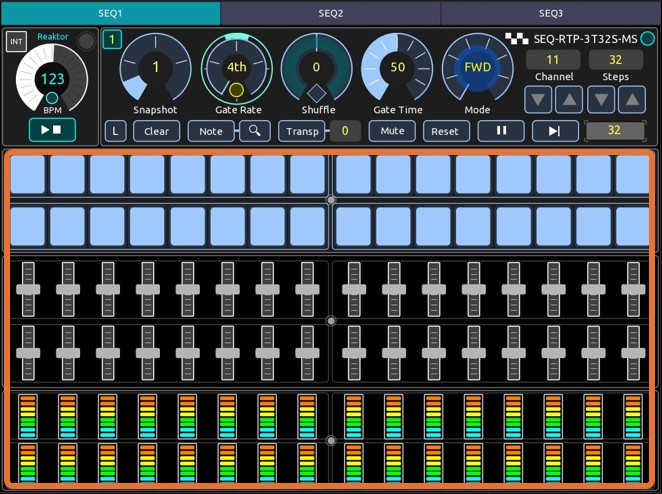
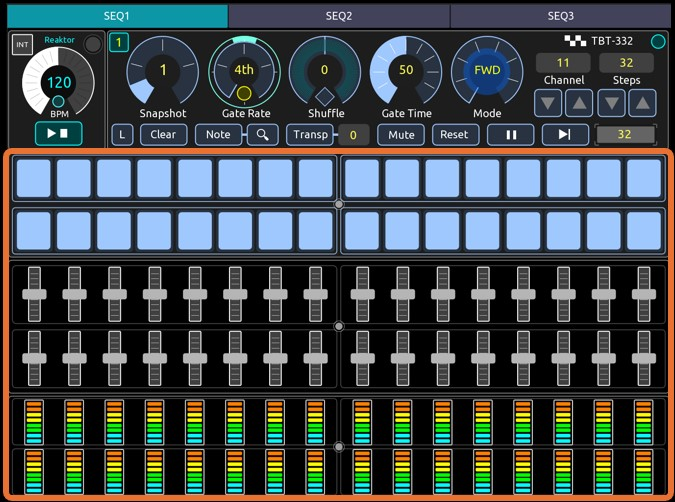
v0.1 update

diff --git a/README.md b/README.md
@@ -1,8 +1,8 @@
 ## Reaktor ToyBox Tangle Pack Sequencer
-### Custom Built Reaktor rack and TouchOSC Template
+### TouchOSC Template for a Custom Built Reaktor rack sequencer
 
-- Instrument: Reaktor ToyBox **Tangle Pack** Sequencer, 3 tracks, 32 steps, MIDI out, Standalone
-- Model: SEQ-RTP-3T32S-MS
+- Instrument: Reaktor ToyBox **Tangle Pack** Sequencer, 3 tracks, 32 steps, MIDI
+- Model: TBT-332
 - Version: 1.0 
 - ![Static Badge](https://img.shields.io/badge/testing-in_progress-blue)
 
@@ -15,7 +15,7 @@
 ## Contents
 - [Description](#description)
 - [Operation](#operation)
-- [User Guide](USER_GUIDE.md)
+- [User Guide :link: ](USER_GUIDE.md)
 - [Instrument](#instrument)
 - [Sequencer](#sequencer)
 - [Reaktor rack](#reaktor-rack)
@@ -27,10 +27,10 @@
 
 
 ## Description
-A TouchOSC template to control with a tablet device a **CUSTOM BUILT** Reaktor Sequencer of 3 tracks, 32 steps per track, custom built with the [ToyBox Tangle Pack](https://www.toyboxaudio.com/pages/tangle-pack) modular blocks. It "materializes" a well featured  "physical" sequencer in a tablet midi controller for your musical production workflow to  jam and inspire your productions.
+A TouchOSC template to control and play with a tablet device a **CUSTOM BUILT** Reaktor Sequencer of 3 tracks, 32 steps, using the [ToyBox Tangle Pack](https://www.toyboxaudio.com/pages/tangle-pack) modular blocks. It "materializes" physical sequencer in a tablet midi controller for your musical production workflow to jam and inspire your productions.
 
 ## Operation
-Reaktor runs in **standalone** mode outside of the DAW using the rack (preset) file included in the repository. The template is the midi controller, Reaktor is the sequencer instrument that can play either a virtual intrument in a DAW or a external instrument. Communication between the template and Reaktor use OSC protocol, with Reaktor being the OSC receiver. Communication between the template and a DAW use MIDI protocol, with the DAW being the Transport control and the external clock source. Clock synchronization between Reaktor and a DAW can be in 3 modes:
+Reaktor runs in **standalone** mode outside of a DAW using the custom built rack (preset) file included in the repository. The template is the midi controller, Reaktor is the sequencer instrument that can play either a virtual intrument in a DAW or a external instrument. Communication between the template and Reaktor use OSC protocol, with Reaktor being the OSC host. Communication between the template and a DAW use MIDI protocol, with the DAW being the Transport control and the external clock source. Clock synchronization between Reaktor and a DAW can be in 3 modes:
 
 <div align="center"> 
 <img src="images/img4.jpg" >
@@ -40,23 +40,24 @@ Reaktor runs in **standalone** mode outside of the DAW using the rack (preset) f
 In this mode Reaktor is the master clock source. Select INT as the clock source in the template. You can optionally configure Reaktor as the master clock if you want to send MIDI Clock to a DAW or a external gear. Configure your DAW or your external synthesizer or modular gear to receive and sync to a external clock source provide by Reaktor. Each DAW and external gear handles clock configuration slightly differently, so how you enable clock synchronization to a external source may require specific setup steps in each environment.
 
 ### Clock Mode 2: Ableton Link
-In this mode Ableton works as the master clock source. Select EXT as the clock source in the template and enable Ableton Link in Reaktor. Enable Link in Ableton and configure your external synthesizer or modular gear to receive and sync to a external clock source provide by Ableton. Each external gear handles clock configuration slightly differently, so how you enable clock synchronization to a external source may require specific setup steps in each environment.
+In this mode Ableton Link works as the master clock source. Toogle INT and select Link as the clock source in the template. Enable Ableton Link in Ableton and Reaktor. Configure your external synthesizer or modular gear to receive and sync to a external clock source provided by Ableton. Each external gear handles clock configuration slightly differently, so how you enable clock synchronization to a external source may require specific setup steps in each environment. You will also require to configure in Ableton the MIDI mapping for the transport controls (play/stop/BPM) and adjust the BPM scaling from 20 to 240.
 
 
 ### Clock Mode 3: External Clock (Reason)
-In this mode Reason (or any other DAW) works as the master clock source. Enable "Sync to External Clock" in Reaktor to receive clock from your DAW and enable clock send in your DAW. The template is configured to receive external clock from Reason DAW. Configure the MIDI clock sync output to use a virtual MIDI port. **Important**: This mode 3 can be used with any other DAW that can send MIDI clock sync.  Each DAW and external gear handles clock configuration slightly differently, so how you enable clock synchronization to a external source may require specific setup steps in each environment. You will also require to configure in your DAW the MIDI mapping for the transport controls (play/stop/BPM) and adjust the BPM scaling accordingly. It is already configured for Reason DAW in this template. 
+In this mode Reason (or any other DAW) works as the master clock source. Toogle INT and select EXT as the clock source in the template. Enable "Sync to External Clock" in Reaktor to receive clock from your DAW and enable clock send in your DAW. Configure the MIDI clock sync output to use a virtual MIDI port. **Important**: This mode 3 can be used with any other DAW that can send MIDI clock sync signal.  Each DAW and external gear handles clock configuration slightly differently, so how you enable clock synchronization to a external source may require specific setup steps in each environment. You will also require to configure in your DAW the MIDI mapping for the transport controls (play/stop/BPM) and adjust the BPM scaling accordingly. BPM scale is already configured to use Reason DAW in the template side. 
 
 
 ### Virtual MIDI ports
-A virtual midi port in your computer is needed to communicate Reaktor with your DAW. You require to configure in Reaktor the virtual MIDI ports interfaces. On a PC you can use [loopMIDI](https://www.tobias-erichsen.de/software/loopmidi.html) to create virtual ports. On a Mac, you can use the IAC bus to create any number of virtual MIDI buses. This driver can be activated in the Audio MIDI Setup Utility.
+A virtual midi port in your computer is requiered to communicate Reaktor with your DAW. You require to setup in Reaktor the virtual MIDI ports interfaces. On a PC you can use [loopMIDI](https://www.tobias-erichsen.de/software/loopmidi.html) to create virtual midi ports. On a Mac, you can use the IAC bus to create any number of virtual MIDI buses. This driver can be activated in the Audio MIDI Setup Utility.
 
 
-### Sync and takeover limitations
-As long as your template and your DAW session are open, both are in sync. But once you close any of them, further changes will lose sync. To keep it in sync, it is recommended to manually save your template and the Reaktor rack session simultaneously before closing, to keep your session and snapshots to continue working later by recalling them. Be aware that TouchOSC does not support automatic template saving, so you must do it mannualy. Also be aware that the template uses "absolute" scaling, so you occasionally will need to move the controllers to pick up the correct value.
+### Snapshot sync and midi takeover
+As long as your template and your DAW session are open, the sequencer values and snapshots are in sync. But once you close any of them, further changes will lose sync. To keep it in sync, it is recommended to manually save your template and the Reaktor rack session simultaneously before closing, to keep your session and the snapshots values and continue working later by recalling them. Be aware that TouchOSC does not support automatic template saving, so you must do it mannualy. Also be aware that the template uses "absolute" scaling, so you occasionally will need to move the controllers to pick up the correct value. Recommended: You can automate the workflow with a steam deck device. 
  
 <br>
 
 ## Instrument
+- Instrument: **Custom built** sequencer using blocks from Reaktor libraries.
 - Plugin: Native Instruments - Reaktor 6 
 - Libraries:
 	- [ToyBox Tangle Pack](https://www.toyboxaudio.com/pages/tangle-pack) 
@@ -93,49 +94,49 @@ As long as your template and your DAW session are open, both are in sync. But on
 - OSC return: Return control sequencer values to the template (gate, position, play)
 
 ## Reaktor rack
+- Custom Built Rack: use of sequencer note, gate, level, ramp, counter, clock and utility.
 - Blocks: 
 	- [ToyBox Tangle Pack](https://www.toyboxaudio.com/pages/tangle-pack) 
 	- [ToyBox Free Pack](https://www.toyboxaudio.com/pages/free-pack-details) 
 	- [Reaktor Blocks Base](https://www.native-instruments.com/en/products/komplete/synths/reaktor-6/blocks/)
-- Rack: CUSTOM BUILT rack. Sequencer note, gate, level, ramp, counter, clock and utility modular blocks.
 - Blocks Mapping: OSC  
 - Reaktor OSC Configuration: 
 	- OSC Activate ON 
 	- Receive on Port 10000 
 	- OSC Send (Identifier Target, Tablet device IP address, Port 10000)
-- File: SEQ-RTP-3T32S-MS-v1_0.nksr
+- Rack File: TBT-332-v1.0.nksr
 
 <div align="center"> 
 <img src="images/img3.jpg" >
 </div>
 
 ## TouchOSC Connections
-- Reaktor Mapping: OSC
-- DAW Host Mapping:  MIDI
-- TouchOSC Connections 
+- Reaktor Mapping: OSC (already mapped)
+- DAW Host Mapping:  MIDI 
+- Tablet device TouchOSC Connections: 
 	- MIDI Connection 1 : Send Port: Bridge, Receive Port: Bridge
 	- OSC Connection 1: Host (IP of PC host), Ports: send 10000, receive 10000
 	- OSC Connection 2: Host (IP of PC host), Ports: send 12101, receive 12101   (This connection required to send keystrokes)
 	- Bridge: Host(IP of PC host)
-- Virtual MIDI interface: Virtual midi ports on the PC/MAc to communicate Reaktor with DAW
+- Virtual MIDI interface: Virtual midi ports on the PC or Mac to communicate Reaktor with DAW
 - Physical MIDI: To communicate Reaktor with external gear
 
 ## Requirements
 - Control surface software: TouchOSC
 - Tablet: An iOS or Android Tablet
-- DAW: (Optional) Ableton Live 11/12 or any other DAW with Send Clock. (If running in Clock mode 1 (INT), a DAW is not requiered) 
+- DAW: (Optional) Ableton Live 11/12 or any other DAW with Send Clock feature. (Only required for clock modes 2 and 3) 
 - Plugin: Native Instruments - Reaktor 6
 - Reaktor Blocks: 
 	- [ToyBox Tangle Pack](https://www.toyboxaudio.com/pages/tangle-pack) 
 	- [ToyBox Free Pack](https://www.toyboxaudio.com/pages/free-pack-details) (OSC send block) 
-	- Reaktor Blocks Base
+	- Reaktor Blocks Base](https://www.native-instruments.com/en/products/komplete/synths/reaktor-6/blocks/)
 - Target virtual instrument: Any virtual instrument in your DAW
 - Target external instrument:  Any external midi instrument
 - MIDI: Virtual MIDI ports
 
 ## Files 
-- TouchOSC template: SEQ-RTP-3T32S-MS-v1.0.tosc
-- Reaktor rack:      SEQ-RTP-3T32S-MS-v1_0.nksr
+- TouchOSC template: TBT-332-v1.0.tosc
+- Reaktor rack:      TBT-332-v1.0.nksr
 
 ## License
 

diff --git a/USER_GUIDE.md b/USER_GUIDE.md
@@ -1,5 +1,11 @@
 ## Reaktor ToyBox Tangle Pack Sequencer
-### Custom Built Reaktor rack and TouchOSC Template
+### TouchOSC Template for a Custom Built Reaktor rack sequencer
+
+- Instrument: Reaktor ToyBox **Tangle Pack** Sequencer, 3 tracks, 32 steps, MIDI
+- Model: TBT-332
+- Version: 1.0 
+- ![Static Badge](https://img.shields.io/badge/testing-in_progress-blue)
+
 
 ## USER GUIDE
 This guide explains the setup, usage and control of the **CUSTOM BUILT** Reaktor ToyBox Tangle Pack Sequencer. 
@@ -50,6 +56,7 @@ Selects the BPM values for the 3 sequencers depending on the clock source:
 
 -- **EXT - Reason** : Use the BPM values from the Reason DAW (or any other you use). Default values are from 1 to 244. Manualy do the midi mapping. If you use any other DAW, modify in the template script the MIDI Control Change message of the **BPMRS** control. The default value for Reason adjusted  from 0 to 30.  Change it and adjust to your DAW as needed. To change the name to your DAW, locate in the script the INTEXT and DAW controls the variable daw_ext and change its value. 
 
+Pressing the BPM value in the center of the control, intializes BPM to 120 BPM. 
  
 <div align="center"> 
 <img src="images/img13.jpg" with=70% >
@@ -250,6 +257,18 @@ All blocks are already OSC mapped with the template (inputs and outputs). You wi
 
 <div align="center"> 
 <img src="images/img18.jpg" with=70% >
+</div>
+
+<br>
+
+The rack uses a **OSC send** block to send feedback OSC signals to the template to control and light the sequencer controls:
+- position
+- gate
+- mute 
+- play 
+
+<div align="center"> 
+<img src="images/img19.jpg" with=70% >
 </div>
 
 <br>
